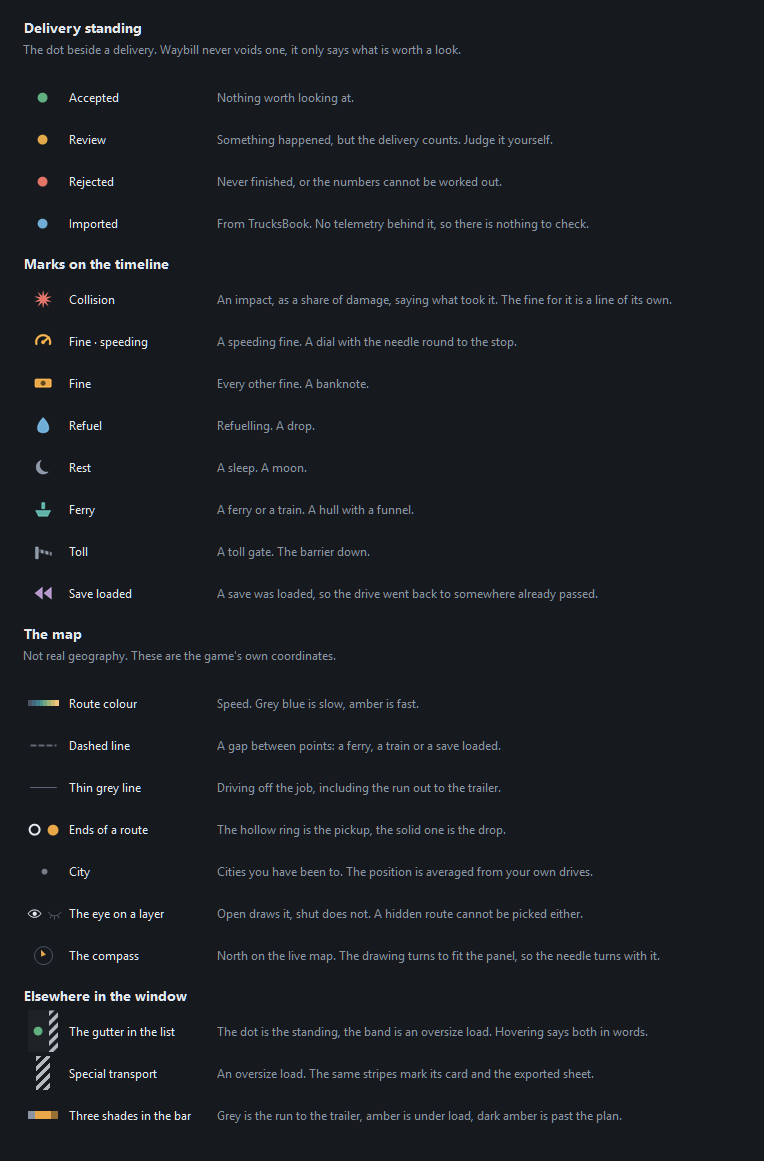
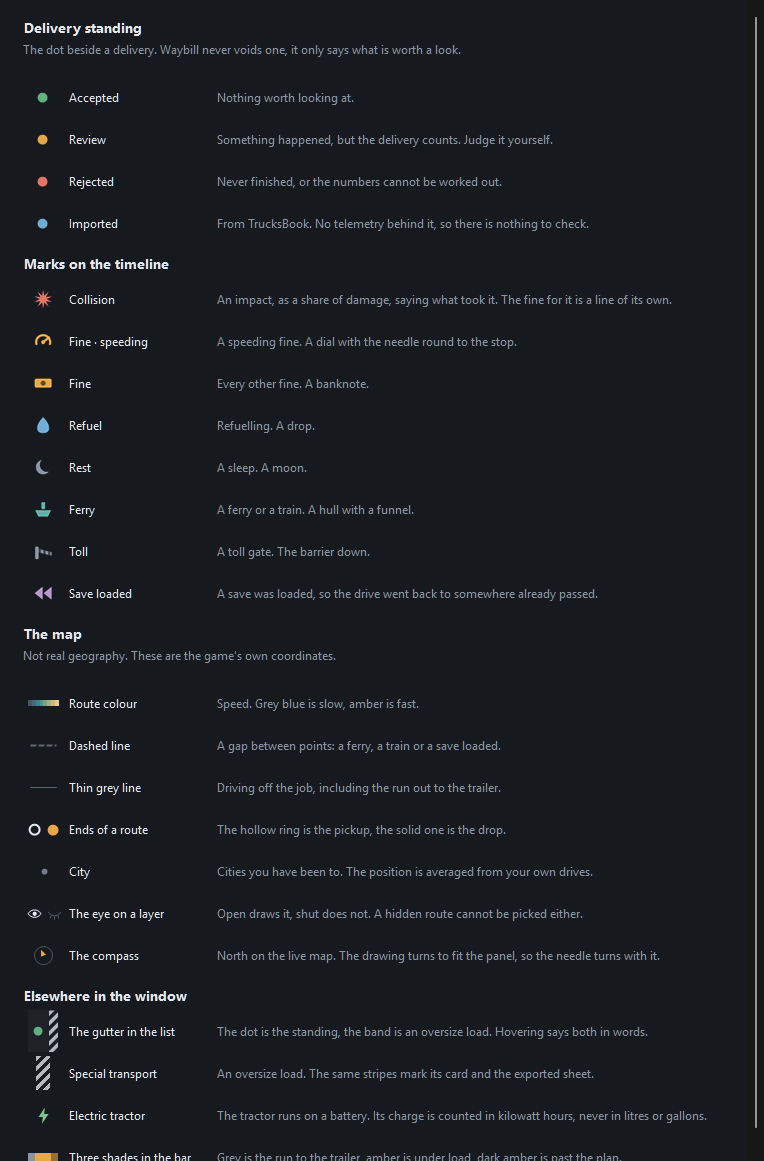
Keep the gutter's mark out of the columns
The grid builds a column out of every property a row is given, so the field
saying whether the tractor was electric arrived as a column of checkboxes
headed "Elektricky", in English and German alike, since a column with no
caption is headed with the name of the field in the code.

It goes on the list of what the gutter draws rather than what the grid shows,
where the identifiers behind the two city names already are.

Changed region(s): [[0.0301, 0.9612, 0.8128, 1.0], [0.873, 0.9612, 0.9031, 0.9922], [0.0301, 0.9302, 0.0602, 0.9612]]

diff --git a/src/Waybill/MainForm.cs b/src/Waybill/MainForm.cs
@@ -3283,6 +3283,11 @@ public partial class MainForm : Form {
             // And the identifiers behind the two city names, which are how the region
             // beside a city is looked up and not something anybody reads.
             nameof(DeliveryRow.OdkialId), nameof(DeliveryRow.KamId), nameof(DeliveryRow.Dokoncene),
+            // And whether the tractor was electric, which is drawn in the gutter. The
+            // grid makes a column out of every property it is given, so anything meant
+            // for the gutter has to be taken back off here or it arrives as a column
+            // headed with the name of the field, in every language at once.
+            nameof(DeliveryRow.Elektricky),
         }) {
             if (_grid.Columns[hidden] is { } col) col.Visible = false;
         }
